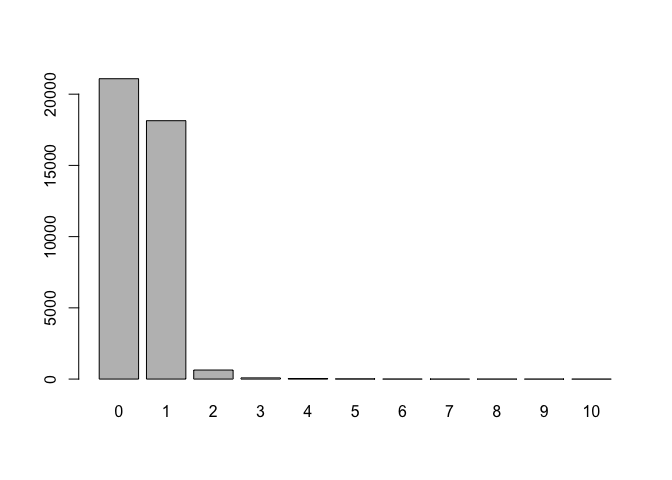
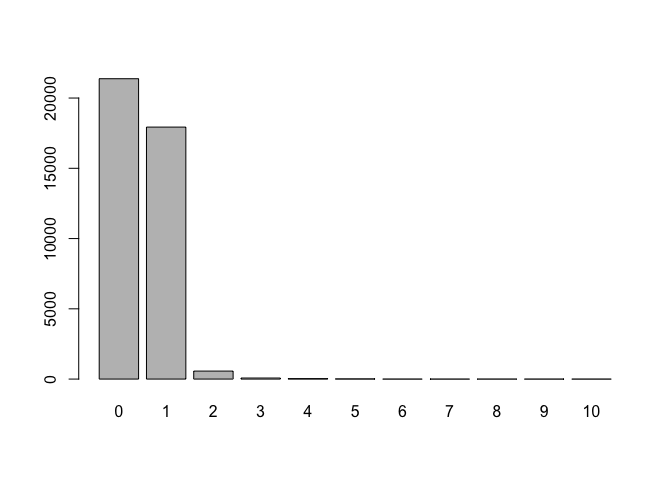
hw04

diff --git a/hw04/report/hw04-soham-ghosh.md b/hw04/report/hw04-soham-ghosh.md
@@ -19,23 +19,23 @@ plot_archive(clean_data)
 ### 1.5) Archives of "splyr", "ggplot2", "XML", and "knitr"
 
 ``` r
-rd_ggplot <- read_archive('ggplot2')
-cd_ggplot <- clean_archive(rd_ggplot)
-write.csv(cd_ggplot, "../data/ggplot2-archive.csv")
-rd_xml <- read_archive('XML')
-cd_xml <- clean_archive(rd_xml)
-write.csv(cd_xml, "../data/xml-archive.csv")
-rd_knitr <- read_archive('knitr')
-cd_knitr <- clean_archive(rd_knitr)
-write.csv(cd_knitr, "../data/knitr-archive.csv")
-rd_dplyr <- read_archive('dplyr')
-cd_dplyr <- clean_archive(rd_dplyr)
-write.csv(cd_dplyr, "../data/dplyr-archive.csv")
-rd_stringr <- read_archive('stringr')
-cd_stringr <- clean_archive(rd_stringr)
-write.csv(cd_stringr, "../data/stringr-archive.csv")
+r_ggplot <- read_archive('ggplot2')
+c_ggplot <- clean_archive(r_ggplot)
+write.csv(c_ggplot, "../data/ggplot2-archive.csv")
+r_xml <- read_archive('XML')
+c_xml <- clean_archive(r_xml)
+write.csv(c_xml, "../data/xml-archive.csv")
+r_knitr <- read_archive('knitr')
+c_knitr <- clean_archive(r_knitr)
+write.csv(c_knitr, "../data/knitr-archive.csv")
+r_dplyr <- read_archive('dplyr')
+c_dplyr <- clean_archive(r_dplyr)
+write.csv(c_dplyr, "../data/dplyr-archive.csv")
+r_stringr <- read_archive('stringr')
+c_stringr <- clean_archive(r_stringr)
+write.csv(c_stringr, "../data/stringr-archive.csv")
 
-big_plot <- rbind(cd_dplyr, cd_ggplot, cd_knitr, cd_xml)
+big_plot <- rbind(c_dplyr, c_ggplot, c_knitr, c_xml)
 ggplot(big_plot, aes(x = date, y = size, color = name)) +
   labs(y = 'Size (kilobytes)', x = 'Date') +
   geom_step()
@@ -62,6 +62,57 @@ split_chars('Go Bears!')
 
     ## [1] "G" "o" " " "B" "e" "a" "r" "s" "!"
 
+``` r
+split_chars('Expecto Patronum')
+```
+
+    ##  [1] "E" "x" "p" "e" "c" "t" "o" " " "P" "a" "t" "r" "o" "n" "u" "m"
+
+``` r
+num_vowels(vec)
+```
+
+    ## a e i o u 
+    ## 1 1 0 1 0
+
+``` r
+count_vowels("The quick brown fox jumps over the lazy dog")
+```
+
+    ## a e i o u 
+    ## 1 3 1 4 2
+
+``` r
+count_vowels("THE QUICK BROWN FOX JUMPS OVER THE LAZY DOG")
+```
+
+    ## a e i o u 
+    ## 1 3 1 4 2
+
+``` r
+reverse_chars("gattaca")
+```
+
+    ## [1] "acattag"
+
+``` r
+reverse_chars("Lumox Maxima")
+```
+
+    ## [1] "amixaM xomuL"
+
+``` r
+reverse_words("sentence! this reverse")
+```
+
+    ## [1] "reverse this sentence!"
+
+``` r
+reverse_words("string")
+```
+
+    ## [1] "string"
+
 Data "Emotion" in Text
 ----------------------
 
@@ -80,7 +131,7 @@ print(summary(number))
     ##    1.00   43.00   69.00   73.41  103.00  167.00
 
 ``` r
-hist(number, breaks = seq(0, max(number)+5, by = 5))
+hist(number, breaks = seq(0, max(number) + 5, by = 5))
 ```
 
 ![](../images/unnamed-chunk-5-1.png)
@@ -90,7 +141,7 @@ hist(number, breaks = seq(0, max(number)+5, by = 5))
 ``` r
 mentions = 1:length(content)
 for (i in mentions) {
-  mentions[i] = sum(grepl("^@[A-Za-z0-9_]{1,15}", str_split(content[i], " ")[[1]]))
+  mentions[i] = sum(grepl("^[^@@]*@[A-Za-z0-9_]{1,15}$", str_split(content[i], " ")[[1]]))
 }
 mentions = unlist(mentions)
 mention_count = table(mentions)
@@ -105,7 +156,7 @@ mention_count
 
     ## mentions
     ##     0     1     2     3     4     5     6     7     8     9    10 
-    ## 21085 18138   635    83    35    14     5     1     2     1     1
+    ## 21375 17933   569    75    28    13     2     1     2     1     1
 
 ``` r
 content[mentions == 10]
@@ -121,14 +172,10 @@ hashtag_length = rep(0,max(number))
 
 for (i in hashtags) {
   tweets = str_split(content[i], " ")[[1]]
-  tags = grepl("^#[A-Za-z][A-Za-z0-9]*", tweets)
-  hashtags[i] = sum(tags)
-  for (j in 1:length(tags)) {
-    if (tags[j]) {
-      index <- nchar(tweets[j])
-      hashtag_length[index] = hashtag_length[index] + 1
-    }
-  }
+  tags = grep("^#[A-Za-z][A-Za-z0-9]*", tweets, val = T)
+  size = nchar(tags) - 1
+  hashtag_length[size] = hashtag_length[size] + 1
+  hashtags[i] = length(tags)
 }
 
 names(hashtag_length) <- 1:length(hashtag_length)
@@ -153,12 +200,12 @@ barplot(hashtag_counts)
 sum(hashtag_length*as.numeric(names(hashtag_length))/sum(hashtag_length))
 ```
 
-    ## [1] 8.997714
+    ## [1] 7.887668
 
 ``` r
 names(hashtag_length[hashtag_length == max(hashtag_length)])
 ```
 
-    ## [1] "5"
+    ## [1] "4"
 
-Average length of hashtags: 8.9977 Most common length of hashtags: 5
+Average length of hashtags: 7.887668 Most common length of hashtags: 4
